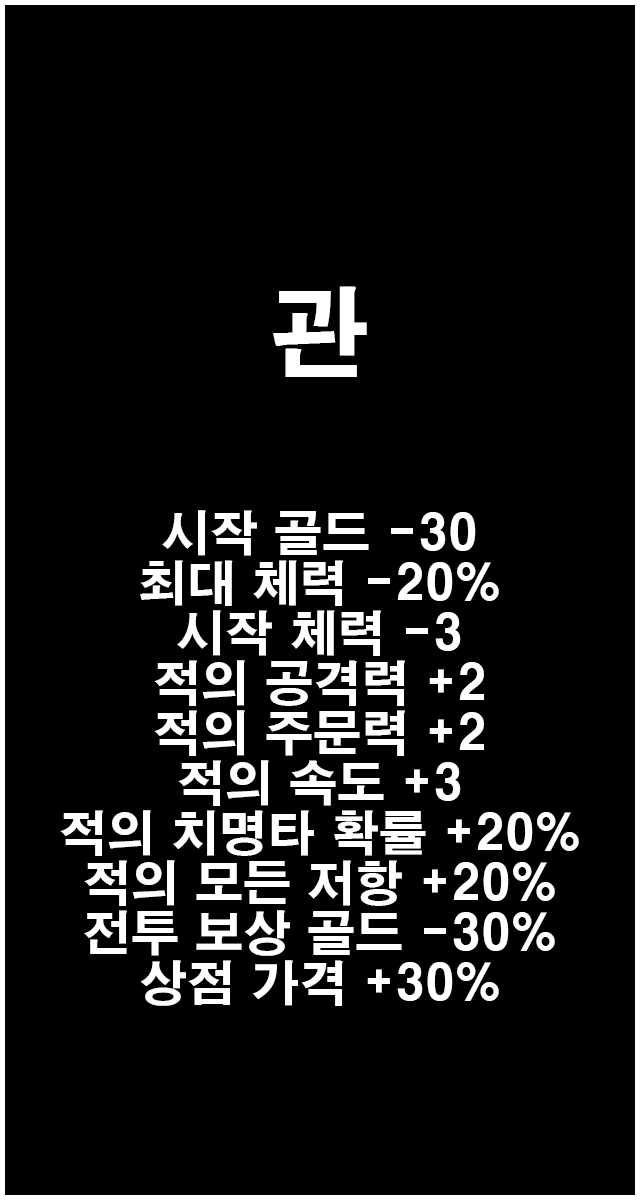
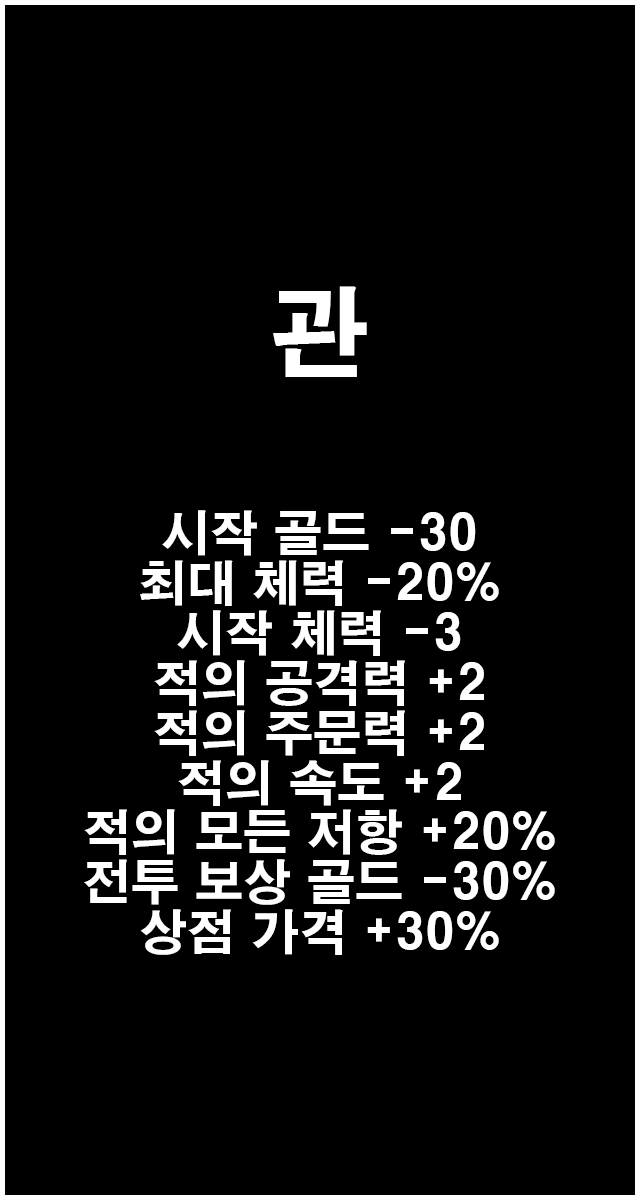
적 능력치 업데이트

Changed region(s): [[0.0938, 0.6167, 0.9062, 0.8633]]

diff --git a/core/src/com/fastcat/labyrintale/abstracts/AbstractEntity.java b/core/src/com/fastcat/labyrintale/abstracts/AbstractEntity.java
@@ -20,13 +20,11 @@ import com.fastcat.labyrintale.effects.UpDamageEffect;
 import com.fastcat.labyrintale.effects.UpTextEffect;
 import com.fastcat.labyrintale.handlers.ActionHandler;
 import com.fastcat.labyrintale.handlers.EffectHandler;
-import com.fastcat.labyrintale.handlers.GroupHandler;
 import com.fastcat.labyrintale.handlers.InputHandler;
 import com.fastcat.labyrintale.prototype.GameConfiguration;
 import com.fastcat.labyrintale.prototype.providers.EntityStatProvider;
 import com.fastcat.labyrintale.prototype.tracker.Tracker;
 import com.fastcat.labyrintale.screens.dead.DeadScreen;
-import com.fastcat.labyrintale.status.NeutResStatus;
 import com.fastcat.labyrintale.status.NeutStatus;
 import com.fastcat.labyrintale.uis.PlayerIcon;
 import com.fastcat.labyrintale.uis.control.ControlPanel;
@@ -465,7 +463,6 @@ public abstract class AbstractEntity implements Cloneable {
                       EffectHandler.add(
                               new UpTextEffect(
                                       ui.x + ui.sWidth / 2, ui.y + ui.sHeight * 0.35f, "죽음 저항", CYAN));
-                      applyStatus(new NeutResStatus(this, 10), this, 10, false);
                     } else {
                       die(attacker);
                     }

diff --git a/core/src/com/fastcat/labyrintale/screens/mainmenu/MainMenuScreen.java b/core/src/com/fastcat/labyrintale/screens/mainmenu/MainMenuScreen.java
@@ -18,9 +18,6 @@ public class MainMenuScreen extends AbstractScreen {
   private final OptionButton optionButton;
   private final ExitButton exitButton;
 
-  public SlideBar slide;
-  public CheckBox check;
-
   public MainMenuScreen() {
     setBg(FileHandler.getBg().get("BG_MAIN"));
     logoText = new LogoText();
@@ -28,9 +25,6 @@ public class MainMenuScreen extends AbstractScreen {
     tutorialButton = new TutorialButton();
     optionButton = new OptionButton();
     exitButton = new ExitButton();
-
-    slide = new SlideBar(100, 100, 50);
-    check = new CheckBox(100, 300, false);
 
     cType = ControlPanel.ControlType.HIDE;
   }
@@ -42,9 +36,6 @@ public class MainMenuScreen extends AbstractScreen {
     tutorialButton.update();
     optionButton.update();
     exitButton.update();
-
-    slide.update();
-    check.update();
   }
 
   @Override
@@ -54,9 +45,6 @@ public class MainMenuScreen extends AbstractScreen {
     tutorialButton.render(sb);
     optionButton.render(sb);
     exitButton.render(sb);
-
-    slide.render(sb);
-    check.render(sb);
   }
 
   @Override

diff --git a/core/src/com/fastcat/labyrintale/handlers/DifficultyHandler.java b/core/src/com/fastcat/labyrintale/handlers/DifficultyHandler.java
@@ -40,20 +40,18 @@ public final class DifficultyHandler {
   public void onEnemySpawn(AbstractEntity enemy) {
     if(diff == HARD) {
       enemy.setMaxHealth((int) ((float) enemy.maxHealth * 1.15f), true);
-      enemy.stat.speed += 2;
+      enemy.stat.speed += 1;
       enemy.stat.moveRes += 10;
       enemy.stat.debuRes += 10;
       enemy.stat.neutRes += 10;
-      enemy.stat.critical += 10;
       enemy.stat.attack += 1;
       enemy.stat.spell += 1;
     } else if(diff == COFFIN) {
       enemy.setMaxHealth((int) ((float) enemy.maxHealth * 1.3f), true);
-      enemy.stat.speed += 3;
+      enemy.stat.speed += 2;
       enemy.stat.moveRes += 20;
       enemy.stat.debuRes += 20;
       enemy.stat.neutRes += 20;
-      enemy.stat.critical += 20;
       enemy.stat.attack += 2;
       enemy.stat.spell += 2;
     }

diff --git a/core/src/com/fastcat/labyrintale/status/NeutStatus.java b/core/src/com/fastcat/labyrintale/status/NeutStatus.java
@@ -22,15 +22,13 @@ public class NeutStatus extends AbstractStatus {
   public void onInitial() {
     owner.isNeut = true;
     owner.stat.critical -= 10;
-    owner.stat.moveRes -= 10;
-    owner.stat.debuRes -= 10;
+    owner.stat.speed -= 3;
   }
 
   @Override
   public void onRemove() {
     owner.isNeut = false;
     owner.stat.critical += 10;
-    owner.stat.moveRes += 10;
-    owner.stat.debuRes += 10;
+    owner.stat.speed += 3;
   }
 }

diff --git a/core/src/com/fastcat/labyrintale/enemies/act2/Enemy2Normal1.java b/core/src/com/fastcat/labyrintale/enemies/act2/Enemy2Normal1.java
@@ -17,11 +17,17 @@ public class Enemy2Normal1 extends AbstractEnemy {
   public Enemy2Normal1() {
     super(ID, TYPE, HEALTH);
     isRandom = false;
+    stat.speed = 1;
+    stat.critical = 20;
+    stat.debuRes = 20;
+    stat.neutRes = 5;
+    stat.moveRes = 10;
   }
 
   @Override
   public void preBattle() {
     applyStatus(new ArmourStatus(10), this, 10, false);
+    block = 10;
   }
 
   @Override

diff --git a/core/src/com/fastcat/labyrintale/actions/HinderAction.java b/core/src/com/fastcat/labyrintale/actions/HinderAction.java
@@ -16,6 +16,7 @@ public class HinderAction extends AbstractAction {
       AbstractEntity actor, AbstractSkill.SkillTarget target, int damage, int cool) {
     super(actor, target, 0.5f);
     info = new AbstractEntity.DamageInfo(actor, damage);
+    this.cool = cool;
   }
 
   @Override

diff --git a/core/src/com/fastcat/labyrintale/enemies/act3/Enemy3Normal2.java b/core/src/com/fastcat/labyrintale/enemies/act3/Enemy3Normal2.java
@@ -15,6 +15,11 @@ public class Enemy3Normal2 extends AbstractEnemy {
   public Enemy3Normal2() {
     super(ID, TYPE, HEALTH);
     isRandom = false;
+    stat.speed = 3;
+    stat.critical = 20;
+    stat.debuRes = 10;
+    stat.neutRes = 20;
+    stat.moveRes = 10;
   }
 
   @Override

diff --git a/core/src/com/fastcat/labyrintale/enemies/act2/Enemy2Normal3.java b/core/src/com/fastcat/labyrintale/enemies/act2/Enemy2Normal3.java
@@ -15,6 +15,11 @@ public class Enemy2Normal3 extends AbstractEnemy {
   public Enemy2Normal3() {
     super(ID, TYPE, HEALTH);
     isRandom = false;
+    stat.speed = 0;
+    stat.critical = 10;
+    stat.debuRes = 20;
+    stat.neutRes = 5;
+    stat.moveRes = 10;
   }
 
   @Override

diff --git a/core/src/com/fastcat/labyrintale/enemies/act2/Enemy2Normal5.java b/core/src/com/fastcat/labyrintale/enemies/act2/Enemy2Normal5.java
@@ -14,6 +14,11 @@ public class Enemy2Normal5 extends AbstractEnemy {
   public Enemy2Normal5() {
     super(ID, TYPE, HEALTH);
     isRandom = false;
+    stat.speed = 3;
+    stat.critical = 10;
+    stat.debuRes = 15;
+    stat.neutRes = 5;
+    stat.moveRes = 30;
   }
 
   @Override

diff --git a/core/src/com/fastcat/labyrintale/enemies/act3/Enemy3Normal1.java b/core/src/com/fastcat/labyrintale/enemies/act3/Enemy3Normal1.java
@@ -15,6 +15,11 @@ public class Enemy3Normal1 extends AbstractEnemy {
   public Enemy3Normal1() {
     super(ID, TYPE, HEALTH);
     isRandom = false;
+    stat.speed = 5;
+    stat.critical = 5;
+    stat.debuRes = 10;
+    stat.neutRes = 10;
+    stat.moveRes = 10;
   }
 
   @Override

diff --git a/core/src/com/fastcat/labyrintale/enemies/act3/Enemy3Elite1.java b/core/src/com/fastcat/labyrintale/enemies/act3/Enemy3Elite1.java
@@ -14,6 +14,11 @@ public class Enemy3Elite1 extends AbstractEnemy {
   public Enemy3Elite1() {
     super(ID, TYPE, HEALTH);
     isRandom = false;
+    stat.speed = 3;
+    stat.critical = 10;
+    stat.debuRes = 30;
+    stat.neutRes = 10;
+    stat.moveRes = 10;
   }
 
   @Override

diff --git a/core/src/com/fastcat/labyrintale/enemies/act3/Enemy3Elite2.java b/core/src/com/fastcat/labyrintale/enemies/act3/Enemy3Elite2.java
@@ -15,6 +15,11 @@ public class Enemy3Elite2 extends AbstractEnemy {
   public Enemy3Elite2() {
     super(ID, TYPE, HEALTH);
     isRandom = false;
+    stat.speed = 3;
+    stat.critical = 20;
+    stat.debuRes = 20;
+    stat.neutRes = 10;
+    stat.moveRes = 10;
   }
 
   @Override
